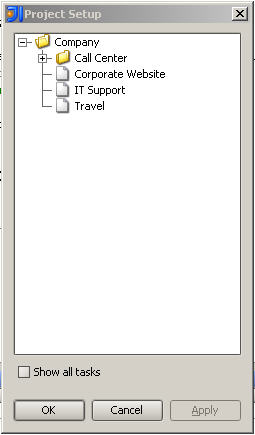
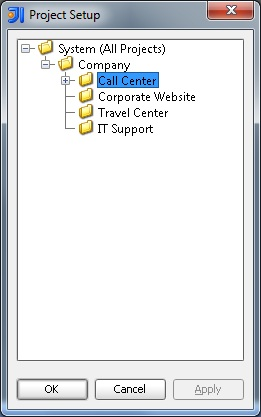
Updated doc and renamed window name
git-svn-id: https://svn.corp.versionone.net/svn/1/Trunk/V1Integration/Java/IDEA@39037 542498e7-56f8-f544-a0f2-a85913ac812a

diff --git a/src/com/versionone/integration/idea/TasksComponent.java b/src/com/versionone/integration/idea/TasksComponent.java
@@ -39,7 +39,7 @@ public class TasksComponent extends AbstractComponent{
     private static final String COMPONENT_NAME = "V1.ToolWindow";
 
     @NonNls
-    public static final String TOOL_WINDOW_ID = "V1Integration";
+    public static final String TOOL_WINDOW_ID = "V1Workitems";
 
     private Content content;
     private TasksTable table;
